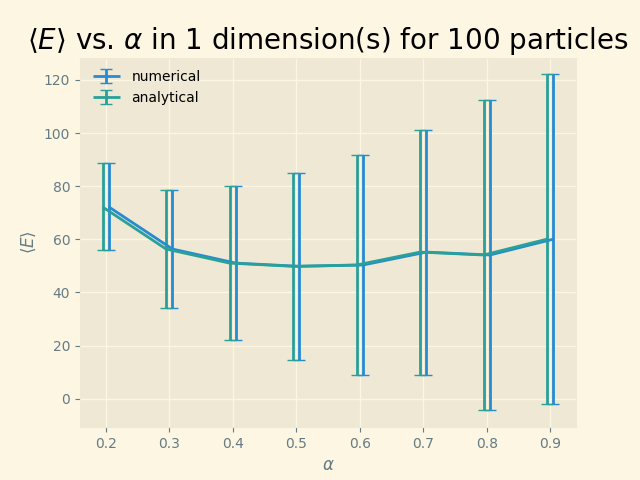
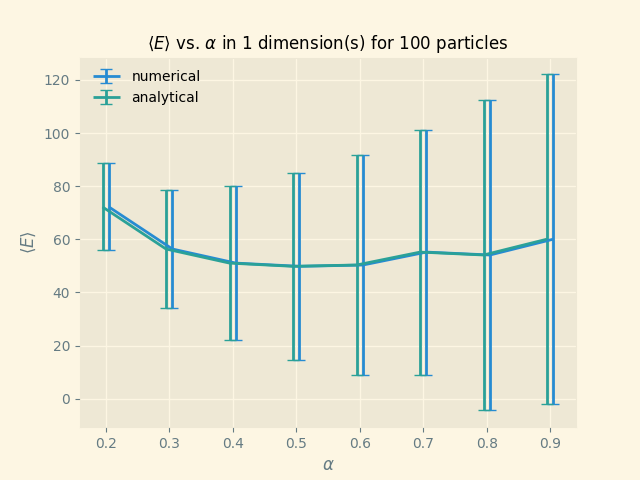
pull to push ..

Changed region(s): [[0.0312, 0.0312, 1.0, 0.125]]

diff --git a/python/plotter.py b/python/plotter.py
@@ -31,7 +31,7 @@ def ploting(x,y, dim, particles, label, xlabel, ylabel, title):
     #legend
     plt.legend(loc = 'upper right', prop = {'size':14}, frameon = False)
     plt.rc('font', size=10)
-    plt.rc('axes', titlesize=20)
+    plt.rc('axes', titlesize=12)
     plt.xlabel(xlabel)
     plt.ylabel(ylabel)
     plt.title(title)
@@ -57,7 +57,7 @@ def plot_E_alpha_gaussian(x_n, y_n, err_n, x_a, y_a, err_a, dim, particles):
     plt.ylabel(r"$\langle E \rangle$")
     plt.legend(loc = 'upper left', prop = {'size':10}, frameon = False)
     plt.rc('font', size = 10)
-    plt.rc('axes', titlesize = 20)
+    plt.rc('axes', titlesize = 15)
     plt.savefig(FIG_DIR + f'dummy_{dim}D_{particles}_particles_error.png') 
     return fig
 #usage
